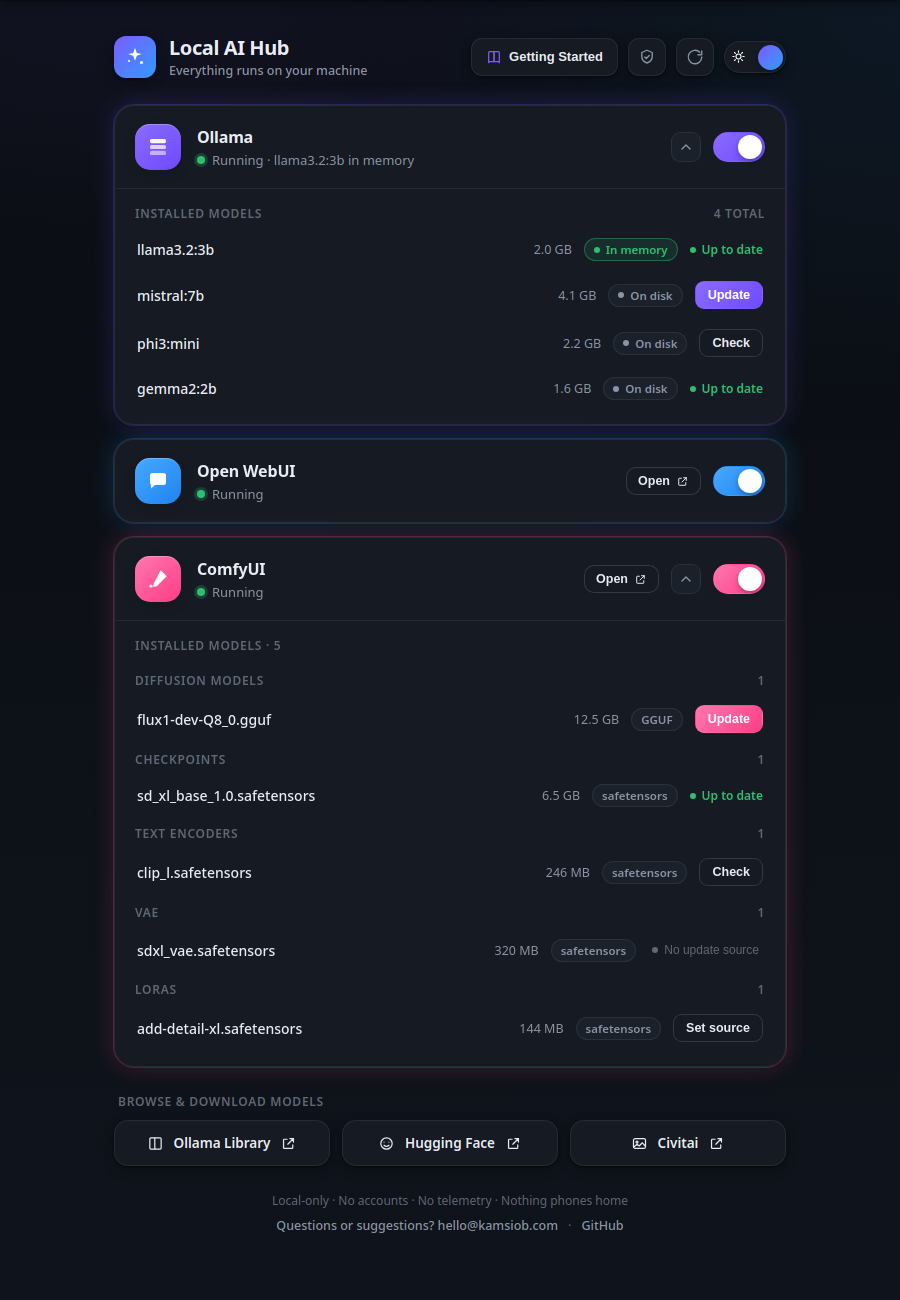
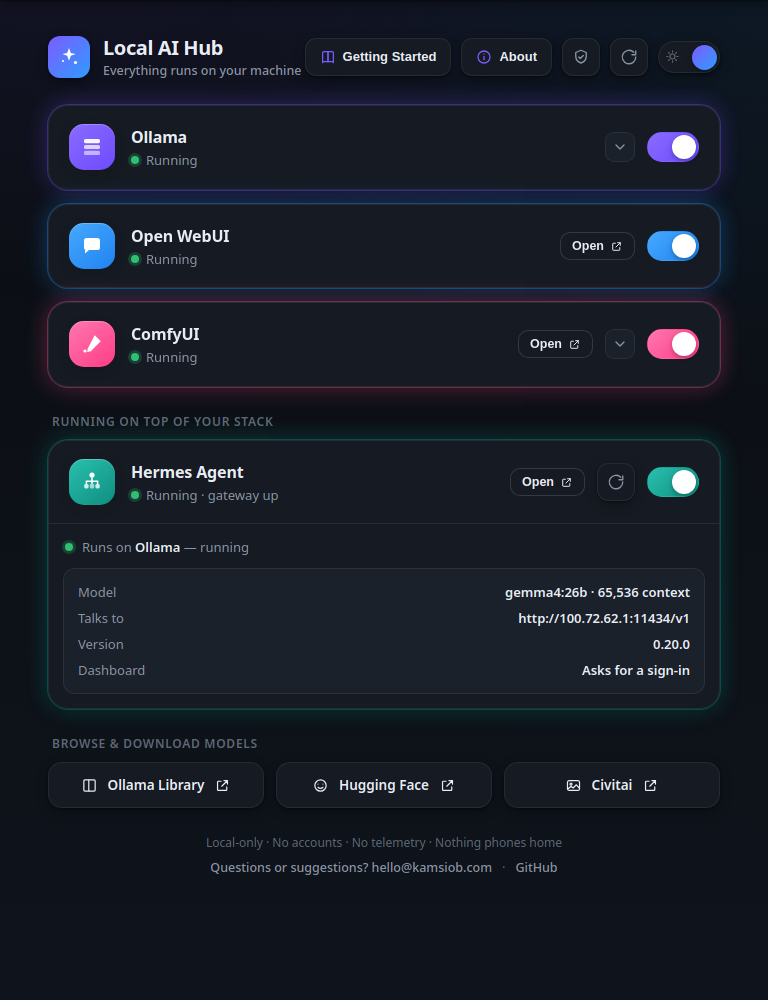
Repin the Flatpak manifest to v1.2.0, refresh screenshots and the runbook
Screenshots now show the whole app in one frame with the cards collapsed, so
the picture shows the two-tier structure — services, then the layer on top —
rather than a model list that pushed it off screen.

FLATHUB_RESUBMIT.md records what 1.2.0 does and doesn't change for the
submission: no new finish-args, two capabilities deliberately left degraded in
the sandbox rather than asking for broader access, and the fact that the new
version check never self-updates. All questions a reviewer is likely to raise.

diff --git a/FLATHUB_RESUBMIT.md b/FLATHUB_RESUBMIT.md
@@ -26,6 +26,13 @@ mandatory, and it can ONLY be attached through **GitHub's web UI by drag-and-dro
 (into the PR description or a comment). **There is no CLI/API way to upload a
 video** — so this step is the human's, and everything else waits on it.
 
+Record it against **1.2.0 or later**, not the old 1.1.0 dev build. Two things in
+1.2.0 are worth a couple of seconds each on camera because they are the app's
+best answer to "why does this need systemd access": toggling a service, and the
+"Not installed" card appearing or disappearing on its own when a tool is added
+or removed. Skip the Hermes section unless it happens to be on screen — it is
+not part of the pitch and its absence is normal for a reviewer's machine.
+
 Test-launch the Flatpak first: `flatpak run io.github.kamsiob.LocalAIHub`
 (a local dev build is installed; if it's gone, rebuild per the steps in
 `flatpak/PACKAGING-NOTES.md`).
@@ -57,14 +64,14 @@ app repo — it's the one in the **`kamsiob/flathub` fork**, branch
 **`io.github.kamsiob.LocalAIHub`**, file **`io.github.kamsiob.LocalAIHub.yaml`**
 at the repo root. It currently pins the OLD MIT commit. Two edits:
 
-**1. Repin to the AGPL release** (so the store listing shows AGPLv3, not MIT):
+**1. Repin to the current release** (so the store listing shows AGPLv3, not MIT):
 
 ```yaml
     sources:
       - type: git
         url: https://github.com/kamsiob/LocalAIHub.git
-        tag: v1.1.0
-        commit: d656290638ca8410df4754ea2c605c1c53a9b6a0
+        tag: v1.2.0
+        commit: d92521a0e03359ca7fe02f8170cdf18d6eff8c87
 ```
 
 (The copy in this repo, `flatpak/io.github.kamsiob.LocalAIHub.yaml`, is **already**
@@ -78,7 +85,7 @@ item-4 gate — a real requirement: *"License files installed to
       - install -Dm644 LICENSE ${FLATPAK_DEST}/share/licenses/io.github.kamsiob.LocalAIHub/LICENSE
 ```
 
-The AGPL `LICENSE` is already in the `v1.1.0` tag, so this needs **no new tag**.
+The AGPL `LICENSE` is already in the `v1.2.0` tag, so this needs **no new tag**.
 After both edits, re-lint: `flatpak run --command=flatpak-builder-lint
 org.flatpak.Builder manifest io.github.kamsiob.LocalAIHub.yaml` — the only
 remaining error should be `finish-args-systemd1-talk-name` (expected; see below).
@@ -104,19 +111,47 @@ remaining error should be `finish-args-systemd1-talk-name` (expected; see below)
    Every permission's justification is in `flatpak/PACKAGING-NOTES.md`; answer the
    reviewer from there.
 
+## What 1.2.0 changed for this submission
+
+Nothing in the manifest beyond the pin. Recorded here so the question doesn't
+have to be re-derived under review:
+
+- **No new `finish-args`.** The three 1.2.0 features run inside the permissions
+  already requested, or don't run at all. Live install detection uses systemd
+  signals over the existing `--talk-name=org.freedesktop.systemd1`, plus inotify
+  on `~/ComfyUI`, which `--filesystem=~/ComfyUI` already covers. The version
+  check uses the existing `--share=network`. The Hermes layer talks to
+  127.0.0.1 over that same network permission and controls its unit over the
+  same D-Bus name.
+- **Two things degrade in the sandbox on purpose, rather than asking for more
+  access.** Watching `~/.config/systemd/user` and
+  `~/.config/containers/systemd` is not possible without a broader filesystem
+  grant, so under Flatpak install detection leans on the D-Bus signals alone.
+  Reading the model Hermes is configured against needs `podman`, which the
+  sandbox has no route to; the app states that limit in place instead. Neither
+  is worth a permission request, and a reviewer asking "why does it need X"
+  should be told these were declined deliberately.
+- **The app still never self-updates.** 1.2.0 adds a version *check*, and the
+  Flatpak build's result explicitly points at the user's app store with no
+  download button. Worth mentioning unprompted if update handling comes up.
+- **Screenshots.** `assets/screenshot-{dark,light}.png` predate 1.2.0 and show
+  no layers section. They are referenced by the MetaInfo, so refresh them
+  before the store listing goes live; the listing is not blocked on it, but
+  stale shots are a poor first impression.
+
 ## Do NOT
 
 - **Do not open a new PR.** Revive the existing **#9414** by fixing it + commenting
   (the bot rejects new/duplicate PRs).
 - **Do not pin the v1.0.0 MIT commit** (`67f71f1`) — that would make the store show
-  the wrong license. Use **v1.1.0 / d656290**.
+  the wrong license. Use **v1.2.0 / d92521a**.
 
 ## Key facts (copy-paste)
 
 - App ID: `io.github.kamsiob.LocalAIHub`
 - Flathub PR: https://github.com/flathub/flathub/pull/9414  (state: CLOSED)
 - Fork + branch: `kamsiob/flathub` @ `io.github.kamsiob.LocalAIHub`
-- AGPL tag/commit to pin: `v1.1.0` / `d656290638ca8410df4754ea2c605c1c53a9b6a0`
+- Tag/commit to pin: `v1.2.0` / `d92521a0e03359ca7fe02f8170cdf18d6eff8c87`
 - Expected remaining linter error after fixes: `finish-args-systemd1-talk-name`
   (the systemd permission — justified in `flatpak/PACKAGING-NOTES.md`, resolved by
   a reviewer exception, not by removing it).
